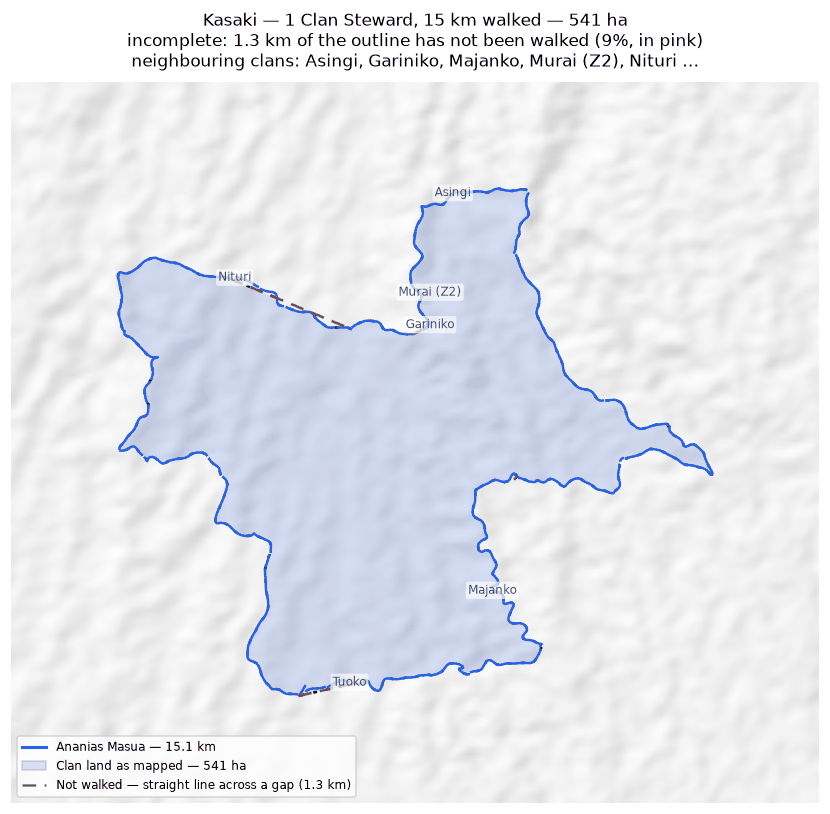
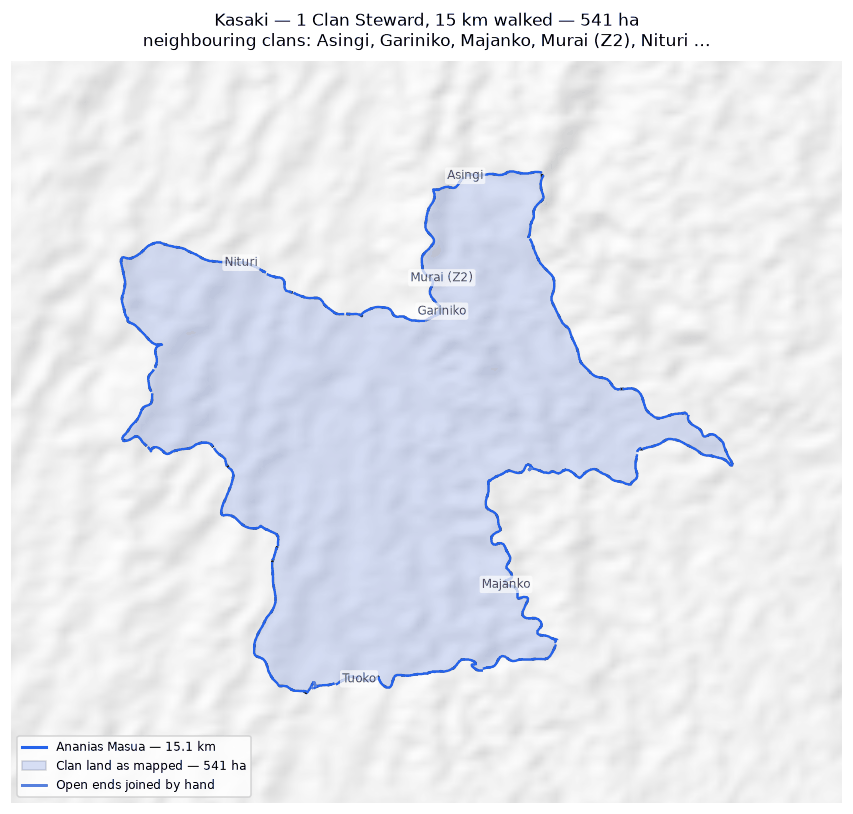
Kasaki's gap was not a gap; tie the loose ends to the line beside them
Every metre of Kasaki's 1.34 km of "not walked" had walked line within 50 m
of it — the two longest ran parallel to the boundary a few tens of metres
off. The ground was walked. The recording stopped and restarted along
stretches the steward had already covered, very likely retracing them the
other way, and the closing step then drew end-to-end instead of joining each
loose end to the line already beside it.

All eight loose ends sit 1–63 m from a point on another piece. Tying them
there costs 216 m and the boundary closes on the walk: 541 ha, the same area
as before, now with nothing inferred in it. Kasaki is the eighth clan
finished.

Also fixes the rule that decides when an adopted segment replaces another. It
treated anything within 50 m Hausdorff as the same stretch, so adopting one
short join silently deleted a different one nearby — three of these eight
vanished that way on the first attempt, leaving a worse polygon than before.
Sameness now means near-identical geometry: within 10 m and of comparable
length.

Claude-Session: https://claude.ai/code/session_01K6X75MkuiGQ9rmgDZx45vk

diff --git a/scripts/dataio.py b/scripts/dataio.py
@@ -783,11 +783,20 @@ def adopt_segment(unit: str, line, kind: str, note: str,
 
     if RESOLUTIONS_PATH.exists():
         existing = gpd.read_file(RESOLUTIONS_PATH).to_crs(METRIC_CRS)
+        # Same stretch means near-identical geometry, not merely nearby. Two
+        # 25 m joins 40 m apart are different stretches; a 50 m Hausdorff
+        # test called them the same and adopting one silently deleted the
+        # other — three of Kasaki's eight joins vanished that way.
+        def same(other) -> bool:
+            if other.hausdorff_distance(line) >= 10:
+                return False
+            longer = max(other.length, line.length) or 1.0
+            return abs(other.length - line.length) / longer < 0.25
+
         keep = existing[~(
             (existing.unit == unit)
             & (existing.kind == kind)
-            & existing.geometry.apply(
-                lambda g: g.hausdorff_distance(line) < 50))]
+            & existing.geometry.apply(same))]
         row = gpd.GeoDataFrame(pd.concat([keep, row], ignore_index=True),
                                geometry="geometry", crs=METRIC_CRS)
 
